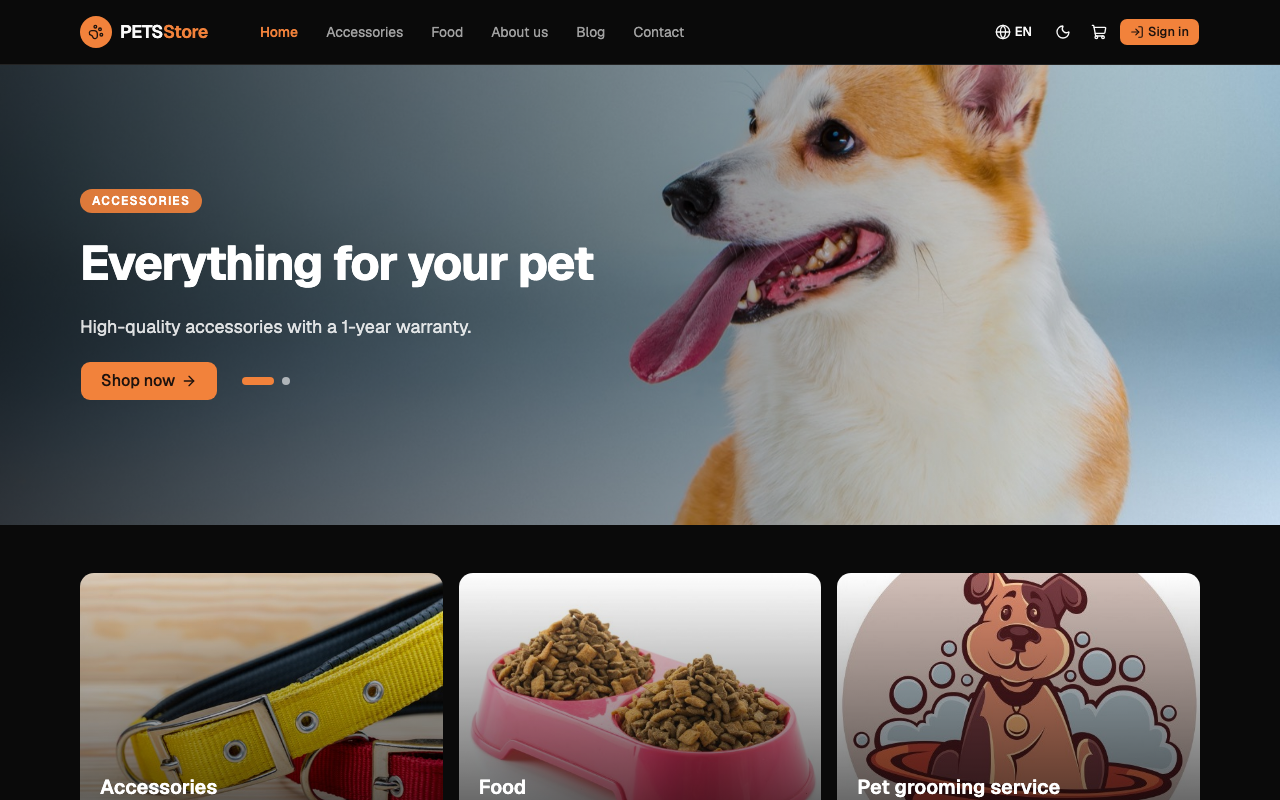
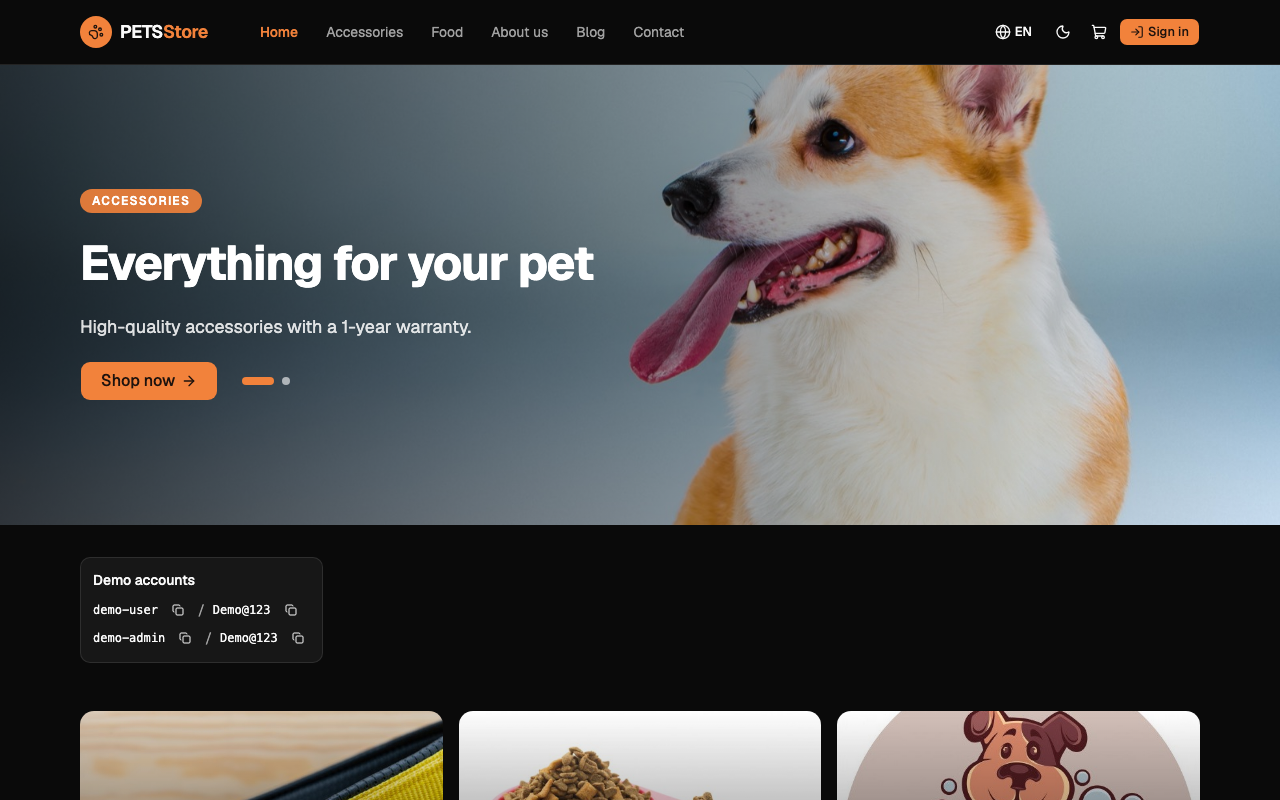
feat(web): demo accounts box behind VITE_SHOW_DEMO_ACCOUNTS

Changed region(s): [[0.0625, 0.6875, 0.9375, 1.0]]

diff --git a/web/src/components/DemoAccounts.tsx b/web/src/components/DemoAccounts.tsx
@@ -1,0 +1,47 @@
+import { Check, Copy } from 'lucide-react'
+import { useState } from 'react'
+import { useTranslation } from 'react-i18next'
+import { Button } from '@/components/ui/button'
+
+export const SHOW_DEMO_ACCOUNTS = import.meta.env.VITE_SHOW_DEMO_ACCOUNTS === 'true'
+
+const accounts = [
+  { user: 'demo-user', password: 'Demo@123' },
+  { user: 'demo-admin', password: 'Demo@123' },
+]
+
+function CopyButton({ text, label }: { text: string; label: string }) {
+  const [done, setDone] = useState(false)
+  return (
+    <Button type="button" variant="ghost" size="icon-xs" aria-label={label}
+      onClick={() => {
+        void navigator.clipboard?.writeText(text)
+        setDone(true)
+        setTimeout(() => setDone(false), 1500)
+      }}>
+      {done ? <Check /> : <Copy />}
+    </Button>
+  )
+}
+
+// Public demo credentials; only rendered when VITE_SHOW_DEMO_ACCOUNTS=true.
+export function DemoAccounts({ className }: { className?: string }) {
+  const { t } = useTranslation()
+  if (!SHOW_DEMO_ACCOUNTS) return null
+  return (
+    <aside className={`rounded-lg border bg-card p-3 text-left text-sm ${className ?? ''}`} data-testid="demo-accounts">
+      <p className="mb-2 font-medium">{t('auth.demoTitle')}</p>
+      <ul className="space-y-1">
+        {accounts.map((a) => (
+          <li key={a.user} className="flex items-center gap-2">
+            <code className="font-mono text-xs">{a.user}</code>
+            <CopyButton text={a.user} label={`${t('auth.copy')} ${a.user}`} />
+            <span className="text-muted-foreground">/</span>
+            <code className="font-mono text-xs">{a.password}</code>
+            <CopyButton text={a.password} label={`${t('auth.copy')} ${a.user} password`} />
+          </li>
+        ))}
+      </ul>
+    </aside>
+  )
+}

diff --git a/web/src/pages/Home.tsx b/web/src/pages/Home.tsx
@@ -2,6 +2,8 @@ import { ArrowRight } from 'lucide-react'
 import { useState } from 'react'
 import { useTranslation } from 'react-i18next'
 import { Link } from 'react-router-dom'
+import { useAuth } from '@/auth/context'
+import { DemoAccounts } from '@/components/DemoAccounts'
 import { useCatalog } from '@/api/queries'
 import { ProductCard } from '@/components/ProductCard'
 import { Button } from '@/components/ui/button'
@@ -17,6 +19,7 @@ export function Home() {
   const slides = t('home.slides', { returnObjects: true }) as { tag: string; title: string; text: string; cta: string }[]
   const [i, setI] = useState(0)
   const slide = slides[i]
+  const { user } = useAuth()
   const featured = useCatalog('products', { size: 4, page: 0, sort: 'price,desc' })
 
   return (
@@ -39,6 +42,8 @@ export function Home() {
           </div>
         </div>
       </section>
+
+      {!user && <div className="mx-auto max-w-6xl px-4 pt-8"><DemoAccounts className="w-fit" /></div>}
 
       <section className="mx-auto grid max-w-6xl gap-4 px-4 py-12 md:grid-cols-3">
         {[

diff --git a/web/src/auth/RequireAuth.tsx b/web/src/auth/RequireAuth.tsx
@@ -2,6 +2,7 @@ import { useEffect, type ReactNode } from 'react'
 import { useTranslation } from 'react-i18next'
 import { Link } from 'react-router-dom'
 import { Button } from '@/components/ui/button'
+import { DemoAccounts } from '@/components/DemoAccounts'
 import { useAuth } from './context'
 
 export function RequireAuth({ admin = false, children }: { admin?: boolean; children: ReactNode }) {
@@ -18,6 +19,7 @@ export function RequireAuth({ admin = false, children }: { admin?: boolean; chil
     return (
       <div className="mx-auto flex max-w-md flex-col items-center gap-4 py-24 text-center">
         <h1 className="text-2xl font-semibold">{t('auth.required')}</h1>
+        <DemoAccounts />
         {mock && (
           <div className="flex gap-2">
             <Button onClick={() => login('customer')}>{t('auth.loginCustomer')}</Button>

diff --git a/web/src/test/app.test.tsx b/web/src/test/app.test.tsx
@@ -57,6 +57,17 @@ describe('access control', () => {
     expect(await screen.findByText('Vui lòng đăng nhập để tiếp tục')).toBeInTheDocument()
   })
 
+  it('shows demo accounts with copy buttons on the sign-in prompt', async () => {
+    const user = userEvent.setup()
+    renderAt(page, '/admin')
+    const box = await screen.findByTestId('demo-accounts')
+    expect(box).toHaveTextContent('demo-user')
+    expect(box).toHaveTextContent('demo-admin')
+    expect(box).toHaveTextContent('Demo@123')
+    await user.click(within(box).getByRole('button', { name: 'Sao chép demo-admin password' }))
+    expect(await navigator.clipboard.readText()).toBe('Demo@123')
+  })
+
   it('rejects customers without the admin role', async () => {
     localStorage.setItem('petstore.mock-user', 'customer')
     renderAt(page, '/admin')

diff --git a/web/e2e/screenshots.spec.ts b/web/e2e/screenshots.spec.ts
@@ -86,6 +86,14 @@ test('admin', async ({ page }) => {
   await shot(page, '15-admin-customers')
 })
 
+test('demo accounts box', async ({ page }) => {
+  await as(page, null)
+  await page.goto('/')
+  await expect(page.getByTestId('demo-accounts')).toBeVisible()
+  await page.waitForLoadState('networkidle')
+  await shot(page, '09-landing-demo-accounts')
+})
+
 test('customer cannot open admin', async ({ page }) => {
   await as(page, 'customer')
   await page.goto('/admin')

diff --git a/web/src/i18n/vi.ts b/web/src/i18n/vi.ts
@@ -10,6 +10,7 @@ export const vi = {
     theme: 'Giao diện', light: 'Sáng', dark: 'Tối', system: 'Theo hệ thống', language: 'Ngôn ngữ', menu: 'Menu',
   },
   auth: {
+    demoTitle: 'Tài khoản demo', copy: 'Sao chép',
     required: 'Vui lòng đăng nhập để tiếp tục', forbidden: 'Bạn không có quyền truy cập trang này',
     loginCustomer: 'Đăng nhập khách hàng (demo)', loginAdmin: 'Đăng nhập quản trị (demo)',
   },

diff --git a/web/src/i18n/en.ts b/web/src/i18n/en.ts
@@ -12,6 +12,7 @@ export const en: Resources = {
     theme: 'Theme', light: 'Light', dark: 'Dark', system: 'System', language: 'Language', menu: 'Menu',
   },
   auth: {
+    demoTitle: 'Demo accounts', copy: 'Copy',
     required: 'Please sign in to continue', forbidden: 'You do not have access to this page',
     loginCustomer: 'Sign in as customer (demo)', loginAdmin: 'Sign in as admin (demo)',
   },

diff --git a/web/vite.config.ts b/web/vite.config.ts
@@ -11,7 +11,7 @@ export default defineConfig({
     globals: true,
     setupFiles: ['./src/test/setup.ts'],
     css: false,
-    env: { VITE_MOCK: 'true', VITE_API_BASE: 'http://localhost/api/v1' },
+    env: { VITE_MOCK: 'true', VITE_SHOW_DEMO_ACCOUNTS: 'true', VITE_API_BASE: 'http://localhost/api/v1' },
     exclude: ['e2e/**', 'node_modules/**'],
   },
 })

diff --git a/web/README.md b/web/README.md
@@ -17,6 +17,13 @@ pnpm shots          # Playwright, regenerates docs/*.png
 Mock mode (`.env.development`): the header login menu offers "customer" and "admin" demo users.
 Real mode: copy `.env.example` to `.env.local`, set `VITE_MOCK=false` and the Keycloak values.
 
+## Demo accounts box
+
+With `VITE_SHOW_DEMO_ACCOUNTS=true` the landing page (signed-out) and the "please sign in" prompt show a small
+"Tài khoản demo" box: `demo-user` and `demo-admin`, both with password `Demo@123`, each value with a copy button.
+Default is off (`false` in the Dockerfile, `true` in `.env.development`). The accounts must exist in the Keycloak
+realm (`demo-admin` with role `admin`); the box only displays them.
+
 ## Keycloak
 
 Public client `petstore-web` in realm `petstore`: Standard flow on, PKCE `S256`, no secret.
@@ -27,7 +34,8 @@ Valid redirect URIs and web origins: the site origin (`http://127.0.0.1:8483` on
 ## Docker
 
 ```bash
-docker build -t petstore-web --build-arg VITE_KEYCLOAK_URL=https://sso.example.com .
+docker build -t petstore-web --build-arg VITE_KEYCLOAK_URL=https://sso.example.com \
+  --build-arg VITE_SHOW_DEMO_ACCOUNTS=true .
 docker run -p 8483:80 petstore-web
 ```
 
